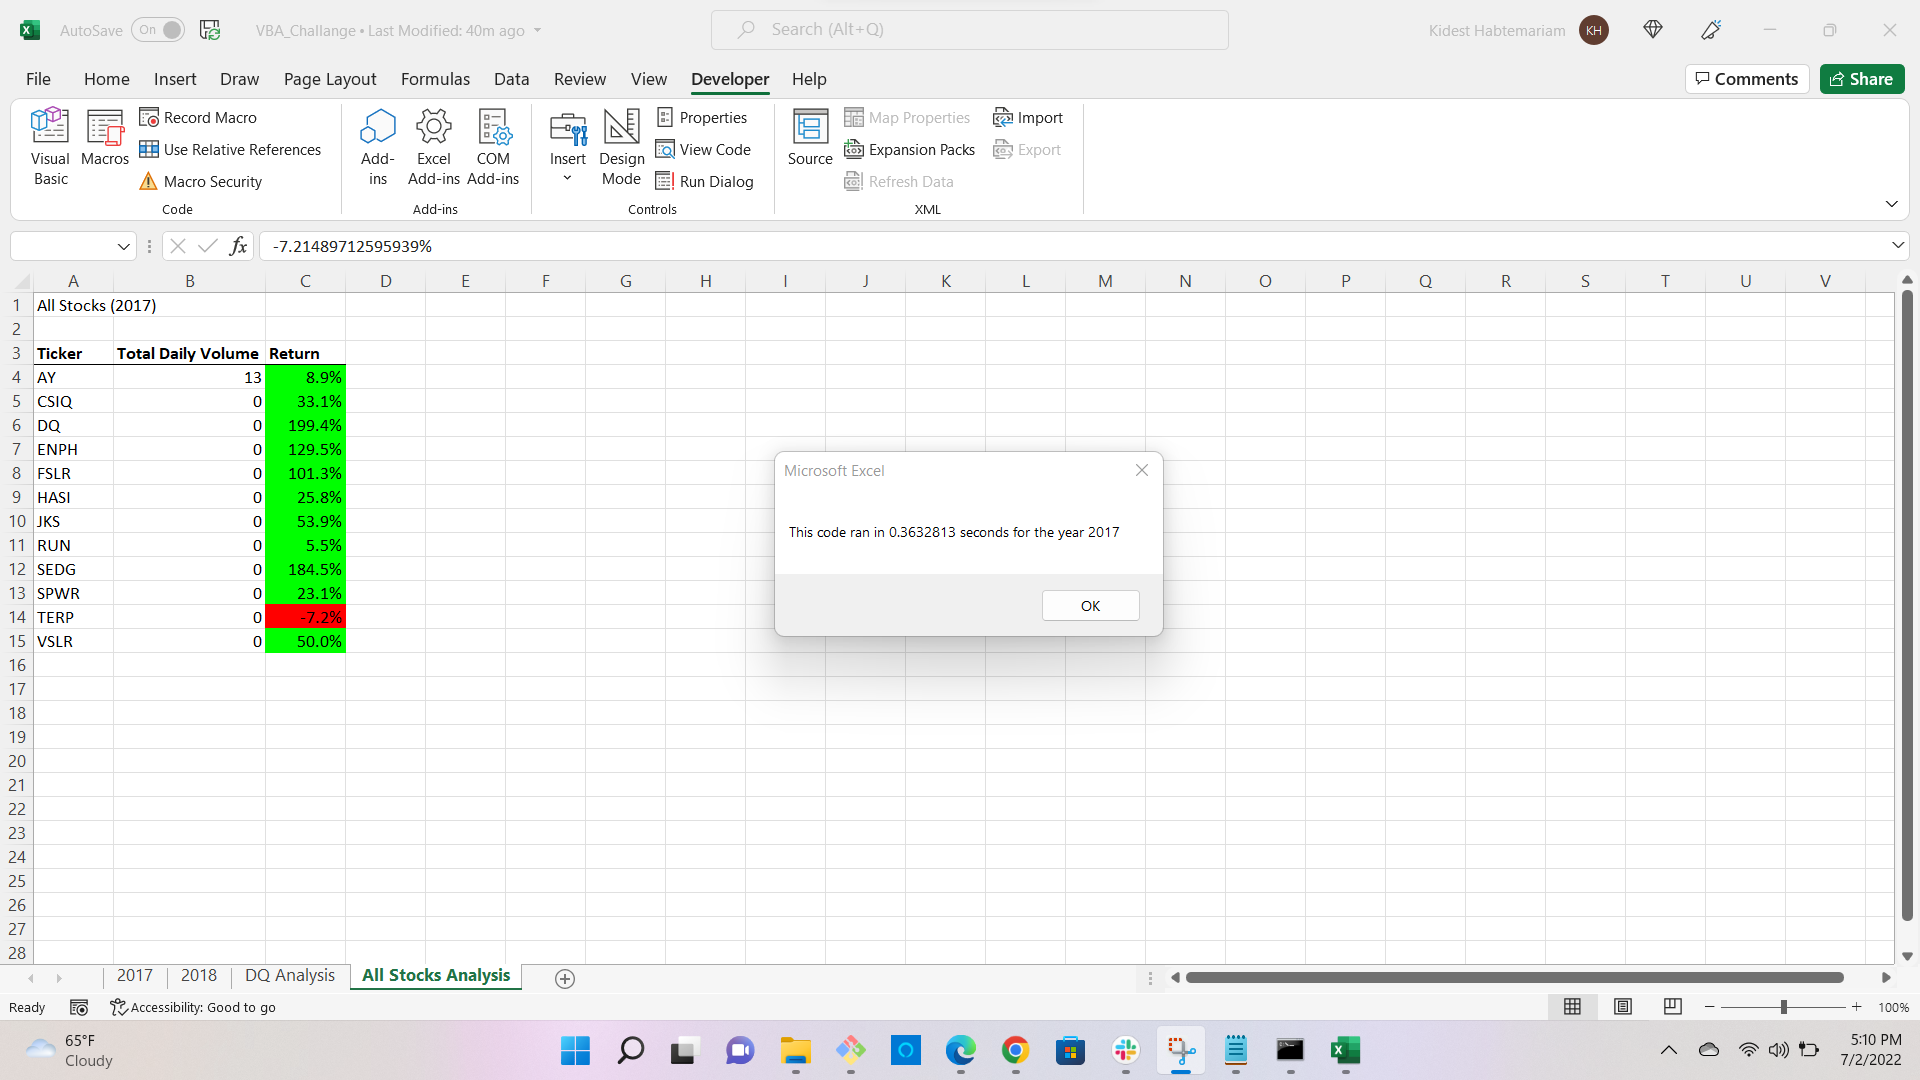
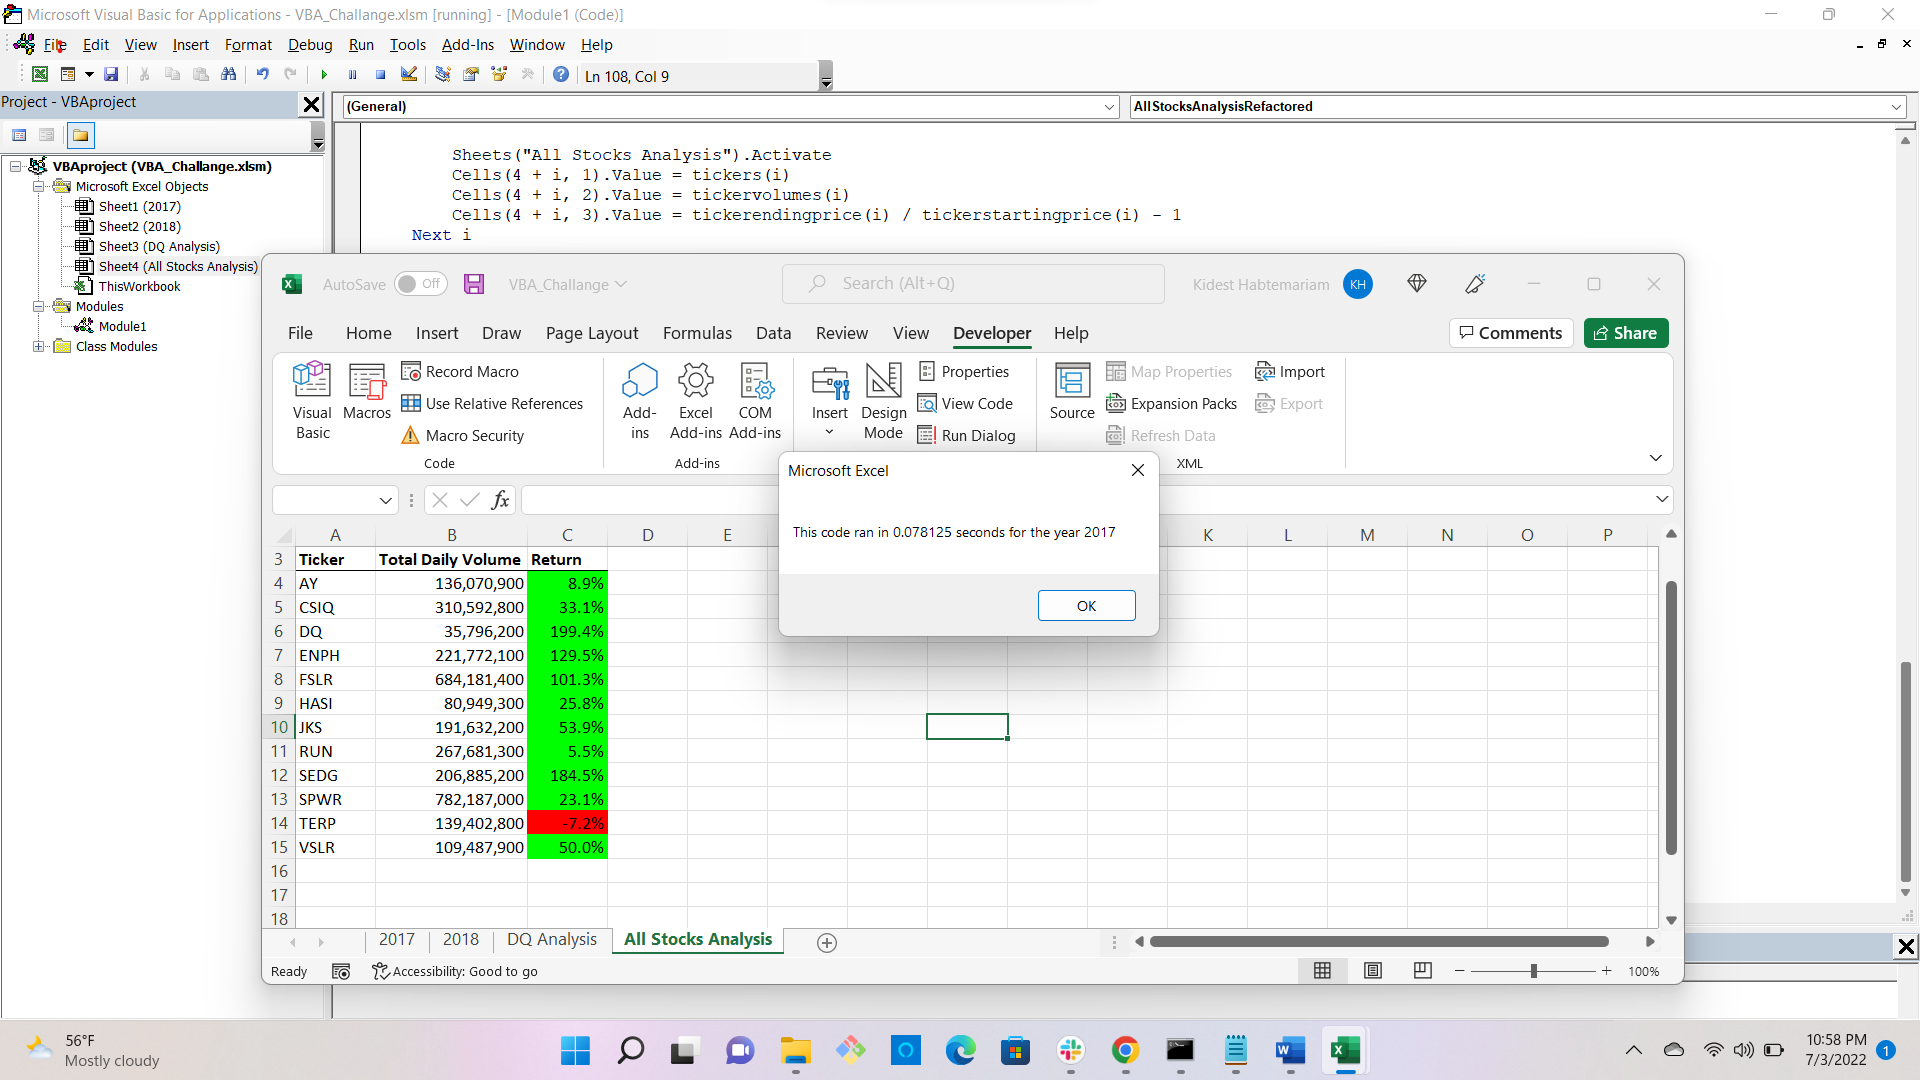
updated readme file and fixing some error

diff --git a/README.md b/README.md
@@ -1,1 +1,143 @@
-# VBA_challange
+VBA_ challenge stocks Analysis
+
+Overview of the project:
+The purpose of this project was to refactor code to analyze stokes data from any year within the given workbook. For the first time, I used nested statements to analyze the given data. The refactor code upgrades the efficiency by looping through the data set once
+
+ Results:
+My refactor code used a nested loop to find the stock return of change for a specified given year in my data
+  I created any arrays of the ticker index volume 12 strings of the data. Then I used them as an index for my original loop while the inner loop went through the data looking for the information method the index thicker. 
+
+
+Sub AllStocksAnalysisRefactored()
+    Dim startTime As Single
+    Dim endTime  As Single
+
+    yearvalue = InputBox("What year would you like to run the analysis on?")
+
+    startTime = Timer
+    
+    'Format the output sheet on All Stocks Analysis worksheet
+    Worksheets("All Stocks Analysis").Activate
+    
+    Range("A1").Value = "All Stocks (" + yearvalue + ")"
+    
+    'Create a header row
+    Cells(3, 1).Value = "Ticker"
+    Cells(3, 2).Value = "Total Daily Volume"
+    Cells(3, 3).Value = "Return"
+
+    'Initialize array of all tickers
+    Dim tickers(12) As String
+    
+    tickers(0) = "AY"
+    tickers(1) = "CSIQ"
+    tickers(2) = "DQ"
+    tickers(3) = "ENPH"
+    tickers(4) = "FSLR"
+    tickers(5) = "HASI"
+    tickers(6) = "JKS"
+    tickers(7) = "RUN"
+    tickers(8) = "SEDG"
+    tickers(9) = "SPWR"
+    tickers(10) = "TERP"
+    tickers(11) = "VSLR"
+    
+    'Activate data worksheet
+    Worksheets(yearvalue).Activate
+    
+    'Get the number of rows to loop over
+    RowCount = Cells(Rows.Count, "A").End(xlUp).Row
+    
+    '1a) Create a ticker Index
+     tickerindex = 0
+    
+    '1b) Create three output arrays
+    Dim tickervolumes(12) As Long
+    Dim tickerstartingprice(12) As Single
+    Dim tickerendingprice(12) As Single
+    
+    ''2a) Create a for loop to initialize the tickerVolumes to zero.
+    For i = 0 To 11
+        tickervolumes(i) = 0
+    Next i
+        
+    
+     'output the data for the current ticker
+      ' Worksheets("DQ Analysis").Activate
+      '      Cells(4 + i, 1).Value = ticker
+       '     Cells(4 + i, 2).Value = totalvolume
+       '      cells(4 + i, 3).value = tickerendingprices
+        
+    
+       
+        
+    ''2b) Loop over all the rows in the spreadsheet.
+    For i = 2 To RowCount
+    
+        '3a) Increase volume for current ticker
+        tickervolumes(tickerindex) = tickervolumes(tickerindex) + Cells(i, 8).Value
+        
+        '3b) Check if the current row is the first row with the selected tickerIndex.
+         If Cells(i - 1, 1).Value <> tickers(tickerindex) Then
+          tickerstartingprice(tickerindex) = Cells(i, 6).Value
+        End If
+        
+        '3c) check if the current row is the last row with the selected ticker
+         'If the next row's ticker doesn't match, increase the tickerIndex.
+         
+         If Cells(i + 1, 1).Value <> tickers(tickerindex) Then
+          tickerendingprice(tickerindex) = Cells(i, 6).Value
+          
+          '3d Increase the tickerIndex
+          tickerindex = tickerindex + 1
+        End If
+    
+    Next i
+    
+    '4) Loop through your arrays to output the Ticker, Total Daily Volume, and Return.
+    For i = 0 To 11
+        
+        Sheets("All Stocks Analysis").Activate
+        Cells(4 + i, 1).Value = tickers(i)
+        Cells(4 + i, 2).Value = tickervolumes(i)
+        Cells(4 + i, 3).Value = tickerendingprice(i) / tickerstartingprice(i) - 1
+    Next i
+    
+    'Formatting
+    Sheets("All Stocks Analysis").Activate
+    Range("A3:C3").Font.FontStyle = "Bold"
+    Range("A3:C3").Borders(xlEdgeBottom).LineStyle = xlContinuous
+    Range("B4:B15").NumberFormat = "#,##0"
+    Range("C4:C15").NumberFormat = "0.0%"
+    Columns("B").AutoFit
+
+    dataRowStart = 4
+    dataRowEnd = 15
+
+    For i = dataRowStart To dataRowEnd
+        
+        If Cells(i, 3) > 0 Then
+            
+            Cells(i, 3).Interior.Color = vbGreen
+            
+        Else
+        
+            Cells(i, 3).Interior.Color = vbRed
+            
+        End If
+        
+    Next i
+ 
+    endTime = Timer
+    MsgBox "This code ran in " & (endTime - startTime) & " seconds for the year " & (yearvalue)
+
+End Sub
+
+	This returned the information I was running 0.3632813 seconds for the year 2017 and 0.0546875 for the year 2018.
+	Insert picture
+
+Summary: 
+•	The advantage and disadvantages of refactoring code.
+Refactoring is a key part of the coding process. When refactoring code is more efficient by using less memory or improving the logic of the code to make it easier for future users to read, Refactoring code does have a disadvantage as well. Code refactoring and restructuring are time-consuming. It’s not a project you can complete in a short time. Depending on the size and complexity of your app, code refactoring can take months to complete.  If the code was properly annotated, then it could be hard to decode the purpose of a certain line of the section of code.
+•	Pros and cons of refactoring code
+ Refactoring code is a great way to explore alternative methods it also allowed further opportunities to debug different types of coding issues. Your code will be better organized for refactoring It won’t be any more function than it was before the change. Refactoring is just changing the structure of the code. 
